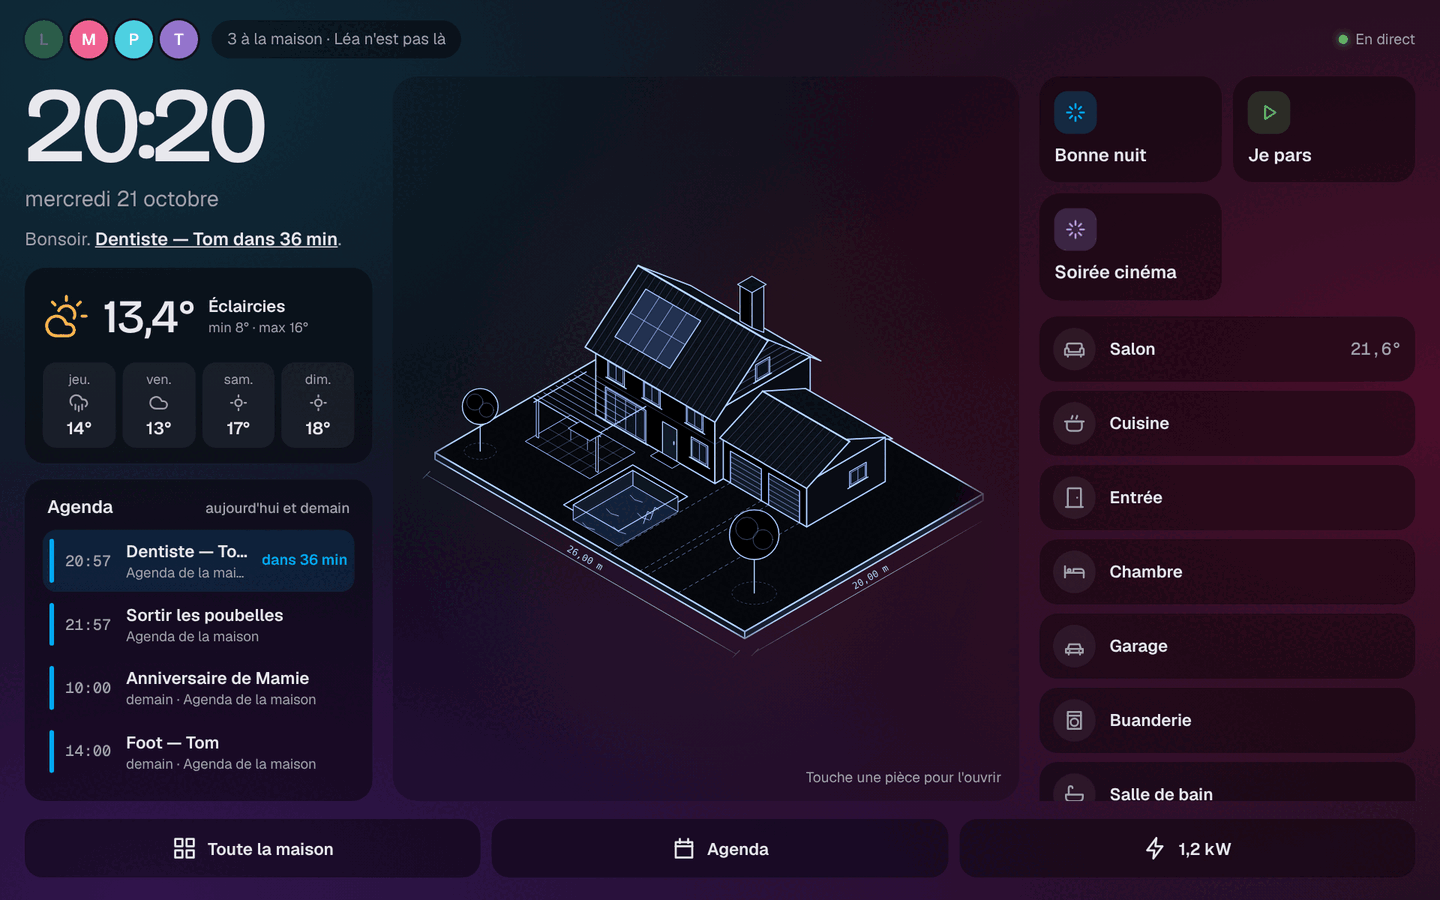
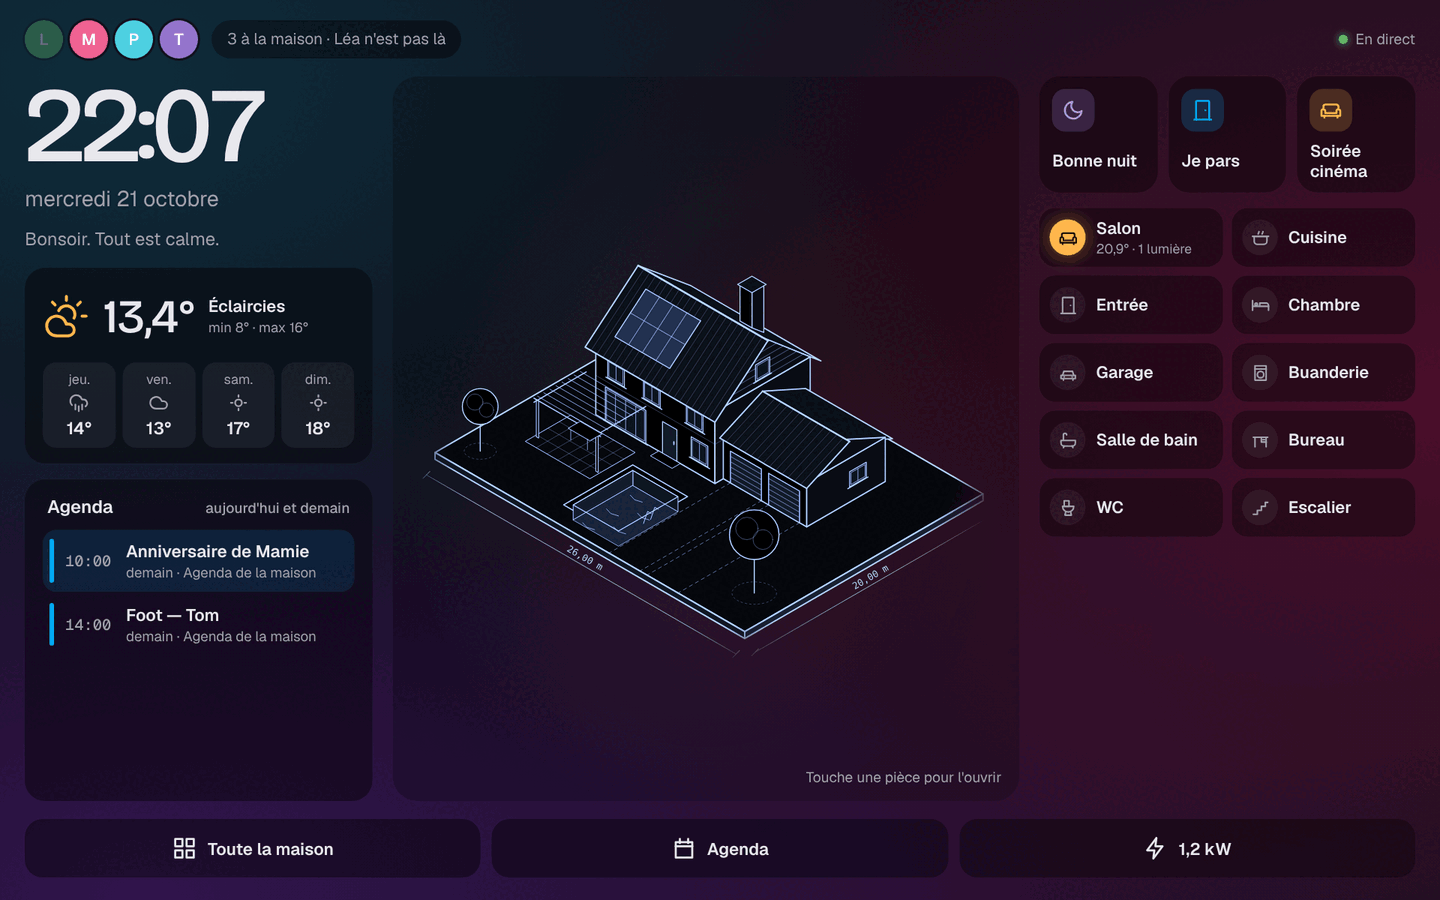
Vue hub : scènes choisies, toutes les pièces, agenda sans doublons
- Les scènes du hub se choisissent dans Mon compte (6 au plus, par
  appareil) ; chacune a une icône et une couleur devinées d'après son nom
  (lune, porte, canapé, soleil, maison) ; plus de case vide (3 colonnes
  pour 3 scènes).
- Au-delà de 6 pièces, deux colonnes compactes : toutes visibles sans
  faire défiler (12 sur une tablette 1280 × 800).
- Le même évènement dans deux agendas n'est montré qu'une fois, avec les
  deux noms ; un rendez-vous commencé dit « en cours ».

Claude-Session: https://claude.ai/code/session_01Dkvx92mMriiViKmoaNEmtb

diff --git a/crates/ha-api/web/hub.js b/crates/ha-api/web/hub.js
@@ -219,18 +219,18 @@ function renderHubAgenda(now) {
   // Aujourd'hui d'abord, puis demain ; dans chaque jour, les heures avant les
   // journées entières (on les voit déjà dans l'agenda).
   const day = (e) => Number(e.startDate >= tomorrow);
-  const events = agendaEvents(now, addDays(tomorrow, 1), calendars)
+  const events = hubMergeSame(agendaEvents(now, addDays(tomorrow, 1), calendars))
     .sort((a, b) => day(a) - day(b) || Number(a.allDay) - Number(b.allDay) || a.startDate - b.startDate)
     .slice(0, 5);
   const next = events.find((e) => !e.allDay && e.startDate > now);
   const rows = events.map((e) => {
     const later = e.startDate >= tomorrow;
-    const sub = [later ? "demain" : "", e.location || "", e.calendar.name].filter(Boolean).join(" · ");
+    const sub = [later ? "demain" : "", e.location || "", ...(e.calendarNames ?? [e.calendar.name])].filter(Boolean).join(" · ");
     const row = el("button", { type: "button", class: e === next ? "hub-event next" : "hub-event" },
       el("span", { class: "hub-event-bar" }),
       el("span", { class: "hub-event-time", text: e.allDay ? "jour" : hourMinute.format(e.startDate) }),
       el("span", { class: "hub-event-text" }, el("b", { text: e.summary }), el("small", { text: sub })),
-      e === next && !later ? el("span", { class: "hub-event-when", text: inMinutes(e.startDate) }) : "");
+      hubEventWhen(e, next, later, now));
     row.style.setProperty("--ev", e.color);
     row.addEventListener("click", () => openEventDetails(e));
     return row;
@@ -239,6 +239,35 @@ function renderHubAgenda(now) {
     el("h2", {}, "Agenda", el("small", { text: "aujourd'hui et demain" })),
     ...(rows.length > 0 ? rows : [el("p", { class: "hub-empty", text: "Rien de prévu d'ici demain soir." })]),
   );
+}
+
+/** « dans 23 min » pour le prochain, « en cours » pour celui qui a commencé. */
+function hubEventWhen(e, next, later, now) {
+  if (!e.allDay && e.startDate <= now && e.endDate > now) return el("span", { class: "hub-event-when now", text: "en cours" });
+  if (e === next && !later) return el("span", { class: "hub-event-when", text: inMinutes(e.startDate) });
+  return "";
+}
+
+/** Le même rendez-vous dans deux agendas (les vacances dans l'agenda de la
+ *  famille et dans celui des vacances scolaires) : une seule ligne, avec les
+ *  deux noms d'agenda. */
+function hubMergeSame(events) {
+  const seen = new Map();
+  const out = [];
+  for (const e of events) {
+    // Sur deux jours, deux journées entières du même nom sont la même chose,
+    // même si l'une commence un jour plus tôt.
+    const key = `${e.allDay ? "jour" : e.startDate.getTime()}|${String(e.summary ?? "").trim().toLowerCase()}`;
+    const first = seen.get(key);
+    if (first) {
+      if (!first.calendarNames.includes(e.calendar.name)) first.calendarNames.push(e.calendar.name);
+      continue;
+    }
+    const copy = { ...e, calendarNames: [e.calendar.name] };
+    seen.set(key, copy);
+    out.push(copy);
+  }
+  return out;
 }
 
 /** « Devant », « Jardin »… : les onglets du dessin. */
@@ -256,19 +285,67 @@ function renderHubViews() {
 }
 
 const HUB_SCENE_TONES = ["go", "home", "night", "cine"];
+const HUB_SCENES_KEY = "ha-hub-scenes";
+const HUB_SCENES_MAX = 6;
+// L'icône et la couleur d'une scène, devinées d'après son nom.
+const HUB_SCENE_LOOKS = [
+  [/nuit|coucher|dodo/i, "moon", "night"],
+  [/pars|d[ée]part|absen|quitt|vacances/i, "door", "go"],
+  [/cin[ée]|film|t[ée]l[ée]|\btv\b/i, "sofa", "cine"],
+  [/matin|r[ée]veil|lever/i, "illuminance", "morning"],
+  [/retour|arriv|rentr|bienvenue/i, "home", "home"],
+  [/repas|d[îi]ner|d[ée]jeuner|cuisine/i, "pot", "morning"],
+  [/lecture|calme|d[ée]tente/i, "bulb", "cine"],
+];
+
+function hubSceneLook(state, index) {
+  const found = HUB_SCENE_LOOKS.find(([pattern]) => pattern.test(nameOf(state)));
+  if (found) return { icon: ICONS[found[1]], tone: found[2] };
+  return {
+    icon: domainOf(state) === "script" ? ICONS.play : ICONS.sparkle,
+    tone: HUB_SCENE_TONES[index % HUB_SCENE_TONES.length],
+  };
+}
+
+/** Les scènes et scripts qu'on peut lancer depuis ce compte. */
+function hubSceneChoices() {
+  return [...entities.values()]
+    .filter((s) => ["scene", "script"].includes(domainOf(s)) && canControl(s))
+    .sort((a, b) => nameOf(a).localeCompare(nameOf(b), "fr"));
+}
+
+/** Le choix de cet appareil (Mon compte), ou null s'il n'y en a pas. */
+function hubChosenScenes() {
+  try {
+    const saved = JSON.parse(localStorage.getItem(HUB_SCENES_KEY) ?? "null");
+    return Array.isArray(saved) ? saved.filter((id) => typeof id === "string").slice(0, HUB_SCENES_MAX) : null;
+  } catch {
+    return null;
+  }
+}
+
+function hubScenes() {
+  const choices = hubSceneChoices();
+  const chosen = hubChosenScenes();
+  const picked = chosen ? choices.filter((s) => chosen.includes(s.entity_id)) : [];
+  // Un choix dont plus rien n'existe (scène supprimée) : le choix par défaut.
+  return picked.length > 0 ? picked : choices.slice(0, HUB_SCENES_MAX);
+}
 
 function renderHubScenes() {
-  const list = [...entities.values()]
-    .filter((s) => ["scene", "script"].includes(domainOf(s)) && canControl(s))
-    .sort((a, b) => nameOf(a).localeCompare(nameOf(b), "fr"))
-    .slice(0, 6);
+  const list = hubScenes();
   const box = $("#hub-scenes");
   box.hidden = list.length === 0;
+  // Pas de case vide : 3 colonnes pour 3, 5 ou 6 scènes, 2 pour 2 ou 4.
+  const columns = list.length === 1 ? 1 : list.length % 3 === 0 || list.length === 5 ? 3 : 2;
+  box.style.setProperty("--cols", String(columns));
+  box.classList.toggle("narrow", columns === 3);
   box.replaceChildren(...list.map((state, index) => {
     const isScript = domainOf(state) === "script";
     const running = isScript && state.state === "on";
-    const button = el("button", { type: "button", class: `hub-scene t-${HUB_SCENE_TONES[index % HUB_SCENE_TONES.length]}${running ? " on" : ""}` },
-      el("span", { class: "hub-scene-icon" }, svgIcon(isScript ? (running ? ICONS.stop : ICONS.play) : ICONS.sparkle)),
+    const look = hubSceneLook(state, index);
+    const button = el("button", { type: "button", class: `hub-scene t-${look.tone}${running ? " on" : ""}` },
+      el("span", { class: "hub-scene-icon" }, svgIcon(running ? ICONS.stop : look.icon)),
       el("b", { text: nameOf(state) }));
     button.addEventListener("click", () => {
       button.classList.add("pending");
@@ -283,19 +360,25 @@ function renderHubRooms() {
   const areas = shownAreas();
   const box = $("#hub-rooms");
   box.hidden = areas.length === 0;
+  // Plus de 6 pièces : deux colonnes plus serrées, pour tout voir sans faire
+  // défiler. La température passe alors sous le nom.
+  const compact = areas.length > 6;
+  box.classList.toggle("compact", compact);
   box.replaceChildren(...areas.map((area) => {
     const info = roomInfo(area);
     const detail = info.alert ? info.alert
       : info.lights > 0 ? `${info.lights} lumière${info.lights > 1 ? "s" : ""}`
       : info.open > 0 ? `${info.open} ouverture${info.open > 1 ? "s" : ""}`
       : info.heating ? "chauffe" : "";
+    const temperature = Number.isFinite(info.temperature) ? `${number.format(info.temperature)}°` : "";
     const classes = ["hub-room"];
     if (info.alert) classes.push("alert");
     else if (info.lights > 0) classes.push("lit");
-    const room = el("button", { type: "button", class: classes.join(" ") },
+    const room = el("button", { type: "button", class: classes.join(" "), title: [area.name, detail].filter(Boolean).join(" : ") },
       el("span", { class: "hub-room-icon" }, svgIcon(roomIcon(area.name))),
-      el("span", { class: "hub-room-text" }, el("b", { text: area.name }), el("small", { text: detail })),
-      el("span", { class: "hub-room-temp", text: Number.isFinite(info.temperature) ? `${number.format(info.temperature)}°` : "" }));
+      el("span", { class: "hub-room-text" }, el("b", { text: area.name }),
+        el("small", { text: compact ? [temperature, detail].filter(Boolean).join(" · ") : detail })),
+      compact ? "" : el("span", { class: "hub-room-temp", text: temperature }));
     room.addEventListener("click", () => openRoom(area.name));
     return room;
   }));
@@ -379,6 +462,38 @@ $("#hub-mode").addEventListener("change", (event) => {
   }
   hub.away = false;
   updateHub();
+});
+
+// Le choix des scènes, dans Mon compte : une case par scène ou script.
+function renderHubPick() {
+  const chosen = new Set(hubScenes().map((s) => s.entity_id));
+  const full = chosen.size >= HUB_SCENES_MAX;
+  const choices = hubSceneChoices();
+  $("#hub-pick-list").replaceChildren(...(choices.length === 0
+    ? [el("p", { class: "account", text: "Aucune scène ni script pour l'instant." })]
+    : choices.map((state) => {
+      const box = el("input", { type: "checkbox", value: state.entity_id });
+      box.checked = chosen.has(state.entity_id);
+      box.disabled = full && !box.checked;
+      box.addEventListener("change", saveHubPick);
+      return el("label", { class: "check" }, box, ` ${nameOf(state)}`);
+    })));
+}
+
+function saveHubPick() {
+  const ids = [...document.querySelectorAll("#hub-pick-list input:checked")].map((box) => box.value);
+  try {
+    if (ids.length === 0) localStorage.removeItem(HUB_SCENES_KEY);
+    else localStorage.setItem(HUB_SCENES_KEY, JSON.stringify(ids.slice(0, HUB_SCENES_MAX)));
+  } catch {
+    // Stockage bloqué : rien à garder.
+  }
+  renderHubPick();
+  if (hub.on) renderHubScenes();
+}
+
+$("#hub-pick").addEventListener("toggle", () => {
+  if ($("#hub-pick").open) renderHubPick();
 });
 $("#tablet-mode").addEventListener("change", () => {
   hub.away = false;

diff --git a/crates/ha-api/web/style.css b/crates/ha-api/web/style.css
@@ -2832,11 +2832,12 @@ label.check { display: flex; align-items: center; gap: 0.45rem; color: var(--tex
 .hub-event-text b { font-weight: 600; overflow: hidden; text-overflow: ellipsis; white-space: nowrap; }
 .hub-event-text small { color: var(--muted); font-size: 0.78rem; overflow: hidden; text-overflow: ellipsis; white-space: nowrap; }
 .hub-event-text small:empty { display: none; }
-/* Le prochain rendez-vous partage sa ligne avec « dans 23 min » : son titre
+/* Un rendez-vous qui partage sa ligne avec « dans 23 min » ou « en cours » : son titre
    passe sur deux lignes plutôt que d'être coupé. */
-.hub-event.next .hub-event-text { flex: 1; }
-.hub-event.next .hub-event-text b { white-space: normal; display: -webkit-box; -webkit-box-orient: vertical; -webkit-line-clamp: 2; line-clamp: 2; }
+.hub-event:has(.hub-event-when) .hub-event-text { flex: 1; }
+.hub-event:has(.hub-event-when) .hub-event-text b { white-space: normal; display: -webkit-box; -webkit-box-orient: vertical; -webkit-line-clamp: 2; line-clamp: 2; }
 .hub-event-when { margin-left: auto; color: #03a9f4; font-weight: 600; font-size: 0.82rem; white-space: nowrap; }
+.hub-event-when.now { color: #66bb6a; }
 .hub-empty { margin: 4px; color: var(--muted); font-size: 0.9rem; }
 
 /* Au centre : la maison. */
@@ -2859,7 +2860,9 @@ label.check { display: flex; align-items: center; gap: 0.45rem; color: var(--tex
 .hub-hint { position: absolute; z-index: 2; right: 16px; bottom: 12px; margin: 0; font-size: 0.8rem; color: var(--muted); }
 
 /* À droite : les scènes, les pièces. */
-.hub-scenes { display: grid; grid-template-columns: 1fr 1fr; gap: 10px; }
+.hub-scenes { display: grid; grid-template-columns: repeat(var(--cols, 2), minmax(0, 1fr)); gap: 10px; }
+.hub-scenes.narrow .hub-scene { min-height: 74px; padding: 11px; }
+.hub-scenes.narrow .hub-scene b { font-size: 0.92rem; line-height: 1.2; }
 .hub-scene { display: grid; gap: 8px; justify-items: start; min-height: 82px; padding: 13px; border: 0; border-radius: 18px; background: var(--card); text-align: left; cursor: pointer; }
 .hub-scene b { font-size: 1rem; font-weight: 600; }
 .hub-scene-icon { width: 38px; height: 38px; border-radius: 12px; display: grid; place-items: center; }
@@ -2868,6 +2871,7 @@ label.check { display: flex; align-items: center; gap: 0.45rem; color: var(--tex
 .hub-scene.t-home .hub-scene-icon { background: rgb(102 187 106 / 0.2); color: #66bb6a; }
 .hub-scene.t-night .hub-scene-icon { background: rgb(149 117 205 / 0.25); color: #b39ddb; }
 .hub-scene.t-cine .hub-scene-icon { background: rgb(255 183 77 / 0.2); color: #ffb74d; }
+.hub-scene.t-morning .hub-scene-icon { background: rgb(255 213 79 / 0.2); color: #f9a825; }
 .hub-scene.pending { opacity: 0.6; }
 .hub-scene.on { box-shadow: inset 0 0 0 2px #03a9f4; }
 .hub-rooms { flex: 1; min-height: 0; overflow-y: auto; display: grid; grid-auto-rows: min-content; gap: 8px; }
@@ -2882,6 +2886,17 @@ label.check { display: flex; align-items: center; gap: 0.45rem; color: var(--tex
 .hub-room-text small { color: var(--muted); font-size: 0.8rem; }
 .hub-room-text small:empty { display: none; }
 .hub-room-temp { margin-left: auto; font-family: var(--font-mono, monospace); font-size: 0.95rem; color: var(--muted); }
+/* Plus de 6 pièces : deux colonnes, pour tout voir sans faire défiler. */
+.hub-rooms.compact { grid-template-columns: repeat(2, minmax(0, 1fr)); gap: 8px; }
+.hub-rooms.compact .hub-room { gap: 9px; min-height: 52px; padding: 7px 9px; border-radius: 14px; }
+.hub-rooms.compact .hub-room-icon { width: 32px; height: 32px; }
+.hub-rooms.compact .hub-room-icon svg { width: 17px; height: 17px; }
+.hub-rooms.compact .hub-room-text b { font-size: 0.92rem; overflow: hidden; text-overflow: ellipsis; white-space: nowrap; }
+.hub-rooms.compact .hub-room-text small { font-size: 0.74rem; overflow: hidden; text-overflow: ellipsis; white-space: nowrap; }
+/* Le choix des scènes du hub, dans Mon compte. */
+.hub-pick summary { cursor: pointer; color: var(--text); font-size: 0.92rem; }
+.hub-pick-list { display: grid; gap: 0.3rem; padding: 0.3rem 0 0.2rem 0.6rem; max-height: 14rem; overflow-y: auto; }
+.hub-pick-list label:has(input:disabled) { opacity: 0.55; }
 
 /* En bas. */
 .hub-dock { grid-column: 1 / -1; display: flex; gap: 10px; }

diff --git a/crates/ha-api/web/index.html b/crates/ha-api/web/index.html
@@ -184,6 +184,11 @@
         <p class="account">Sur cet appareil seulement : l'écran reste allumé, en plein écran, et revient à l'accueil après 2 minutes sans contact.</p>
         <label class="check"><input id="hub-mode" type="checkbox" checked> Vue hub, la maison au centre</label>
         <p class="account">À l'horizontale : l'heure, la météo et l'agenda, les scènes et les pièces, autour du dessin de la maison.</p>
+        <details id="hub-pick" class="hub-pick">
+          <summary>Les scènes du hub (6 au plus)</summary>
+          <p class="account">Sans choix, les 6 premières par ordre alphabétique.</p>
+          <div id="hub-pick-list" class="hub-pick-list"></div>
+        </details>
         <label class="check"><input id="saver-mode" type="checkbox" checked> Écran de veille après 5 minutes</label>
         <p class="account">L'heure, la météo et la maison en grand, plus sombre la nuit. Un contact pour revenir.</p>
       </div>

diff --git a/docs/hub.md b/docs/hub.md
@@ -19,14 +19,18 @@ La tablette **à l'horizontale** :
   premier, avec **Voir** ;
 - **à gauche** : la grande horloge, la date, une phrase (« Bonsoir. Dentiste — Tom dans 37 min. »),
   la **météo** avec les 4 jours suivants, et l'**agenda** d'aujourd'hui et de demain
-  ([TimeTree](timetree.md), l'agenda de la maison…) : le prochain rendez-vous est mis en avant,
-  un contact l'ouvre avec ses détails ;
+  ([TimeTree](timetree.md), l'agenda de la maison…) : le prochain rendez-vous est mis en avant
+  (« dans 37 min »), celui qui a commencé dit « en cours », un contact l'ouvre avec ses détails.
+  Le même évènement dans deux agendas (les vacances dans l'agenda de la famille et dans celui des
+  vacances scolaires) n'est montré qu'une fois, avec les deux noms ;
 - **au centre** : le **dessin de la maison**, le vrai, avec ses calques (lumières, volets, pluie).
   Une pièce du dessin se touche pour s'ouvrir, comme d'habitude. Si le dessin a plusieurs vues
   (« Devant », « Jardin »), des boutons en haut passent de l'une à l'autre ;
-- **à droite** : les **scènes et scripts** (6 au plus : « Bonne nuit », « Je pars »…), puis la
-  liste des **pièces**, avec leur température et ce qui y est allumé ou ouvert. Un contact ouvre
-  la pièce par-dessus la vue hub ;
+- **à droite** : les **scènes et scripts** (6 au plus : « Bonne nuit », « Je pars »…), avec une
+  icône devinée d'après leur nom (une lune pour la nuit, une porte pour un départ, un canapé pour
+  le cinéma, un soleil pour le matin, une maison pour le retour), puis les **pièces**, avec leur
+  température et ce qui y est allumé ou ouvert. Au-delà de 6 pièces, elles passent sur deux
+  colonnes : toutes visibles, sans faire défiler. Un contact ouvre la pièce par-dessus la vue hub ;
 - **en bas** : **Toute la maison** (le tableau de bord complet), **Agenda** (l'agenda en grand),
   **Énergie** (avec la puissance du moment, « 1,2 kW ») et **Annonce à la maison** : une phrase
   tapée sur la tablette, lue sur les enceintes ([étape 73](sonos.md)).
@@ -47,7 +51,11 @@ veille](veille.md) prend le dessin de la maison après 5 minutes, et le rend à 
 
 Dans **Mon compte**, sous **Mode tablette murale** : **Vue hub, la maison au centre** (cochée par
 défaut). Comme le mode tablette et l'écran de veille, c'est un réglage **de cet appareil
-seulement**.
+seulement**. Sur la tablette, on y arrive par **Toute la maison**, puis l'avatar en haut.
+
+Juste en dessous, **Les scènes du hub (6 au plus)** : coche celles à montrer. Sans choix, ce sont
+les 6 premières par ordre alphabétique. Une scène supprimée disparaît du choix ; si plus aucune
+scène choisie n'existe, le choix par défaut revient.
 
 La vue hub ne s'affiche que :
 
@@ -67,7 +75,7 @@ l'annonce est envoyé tel quel au service `tts.speak`, comme depuis une automati
 
 | Fichier | Rôle |
 | ------- | ---- |
-| [web/hub.js](../crates/ha-api/web/hub.js) | Nouveau : quand afficher la vue hub (`hubShouldShow`), `showHub` / `hideHub`, et le contenu de chaque carte |
+| [web/hub.js](../crates/ha-api/web/hub.js) | Nouveau : quand afficher la vue hub (`hubShouldShow`), `showHub` / `hideHub`, le contenu de chaque carte, le choix des scènes (`hubScenes`, `renderHubPick`, gardé dans le navigateur sous `ha-hub-scenes`) et les rendez-vous en double réunis (`hubMergeSame`) |
 | [web/index.html](../crates/ha-api/web/index.html) | Le bloc `#hub`, la fenêtre d'annonce, la case dans Mon compte |
 | [web/style.css](../crates/ha-api/web/style.css) | La grille en trois colonnes, les couleurs de chaque thème, le dessin 3D fondu dans le fond |
 | [web/start.js](../crates/ha-api/web/start.js) | L'écran de veille rend le dessin à la vue hub au réveil |
@@ -82,13 +90,18 @@ continuent sans être recréés.
 Essayé dans le navigateur (tablette 1280 × 800) dans les thèmes Maquette, Clair et Plan : la vue
 hub à l'horizontale, le dessin au centre, une pièce ouverte par-dessus, l'écran de veille et le
 retour, « Toute la maison » puis le retour à l'accueil, l'agenda, la vue Jardin, le réglage
-décoché, et un téléphone (jamais de vue hub). Aucune erreur JavaScript.
+décoché, et un téléphone (jamais de vue hub) ; 12 pièces toutes visibles ; les vacances en double
+réunies ; le choix d'une seule scène dans Mon compte, gardé après rechargement. Aucune erreur
+JavaScript.
 
 ### Concepts utilisés
 
 **`matchMedia`** : la même question qu'une règle CSS `@media` (« l'écran fait-il au moins 900 pixels
 de large, à l'horizontale ? »), posée depuis JavaScript. Son évènement `change` prévient quand la
 tablette tourne : la vue hub apparaît ou disparaît aussitôt.
+
+**CSS `:has()`** : « une ligne d'agenda **qui contient** « dans 37 min » ». Le titre de cette
+ligne seulement passe sur deux lignes, sans classe à ajouter en JavaScript.
 
 **`mix-blend-mode: lighten`** : pour chaque pixel, la couleur la plus claire entre l'image et ce
 qu'il y a derrière. Le noir de l'image 3D disparaît dans le fond, la maison éclairée reste.

diff --git a/ROADMAP.md b/ROADMAP.md
@@ -125,7 +125,7 @@ Les fonctions de Home Assistant les plus utiles au quotidien, une par une, dans 
 - [x] **77. Le mini-PC dédié à la maison** : une machine sous Debian qui ne fait que la maison, comme Home Assistant OS ; `sudo ./installer.sh` installe le serveur en service systemd (démarre à l'allumage, se relance seul, protégé : note 1,8 de `systemd-analyze security`), la commande `sudo ha-maison …` pour l'administrer, la mise à jour automatique chaque nuit (empreinte vérifiée, sauvegarde avant, retour tout seul à l'ancienne version si la nouvelle ne démarre pas), une archive Linux jointe à chaque version, et le guide de A à Z (BIOS, Debian, adresse fixe, mises à jour, sauvegardes, voix) ([guide](docs/mini-pc.md))
 - [x] **78. La tablette murale associée** : à la connexion, « Tablette murale : rester connectée » (jamais pour un administrateur) ; la session est prolongée chaque jour où elle sert et n'expire qu'après 90 jours éteinte ; l'administrateur la voit dans Mon compte et la déconnecte à distance (moins d'une minute) ; guide Android avec Fully Kiosk Browser ([guide](docs/tablette-murale.md))
 - [x] **79. Le HTTPS sur le réseau de la maison** : `HA_TLS=on` (d'office sur le mini-PC) ; une autorité propre à la maison, limitée par des contraintes de nom aux adresses privées et aux noms en `.local` (elle ne peut pas se faire passer pour un vrai site), installée une fois sur chaque appareil ; le certificat du serveur suit son adresse, refait chaque semaine ; `http://` renvoyé vers `https://` ; écran allumé, notifications et appli débloqués ([guide](docs/https-maison.md))
-- [x] **80. La vue hub de la tablette murale** : à l'horizontale, le dessin de la maison au centre ; autour, qui est à la maison, l'alerte du moment (avec « Fermer » pour le garage), l'heure, la météo sur 5 jours, l'agenda d'aujourd'hui et de demain, les scènes et les pièces ; en bas, le tableau de bord complet, l'agenda, l'énergie et une annonce sur les enceintes ; le dessin 3D fondu dans les thèmes sombres ; retour tout seul après 2 minutes ([guide](docs/hub.md))
+- [x] **80. La vue hub de la tablette murale** : à l'horizontale, le dessin de la maison au centre ; autour, qui est à la maison, l'alerte du moment (avec « Fermer » pour le garage), l'heure, la météo sur 5 jours, l'agenda d'aujourd'hui et de demain (sans doublons), les scènes choisies pour la tablette et toutes les pièces sans faire défiler ; en bas, le tableau de bord complet, l'agenda, l'énergie et une annonce sur les enceintes ; le dessin 3D fondu dans les thèmes sombres ; retour tout seul après 2 minutes ([guide](docs/hub.md))
 
 En parallèle, dès que tu me donnes les informations : commande du chauffage Somfy (résultat de
 `somfy devices`), puis de l'alarme (avec confirmation et journal).
